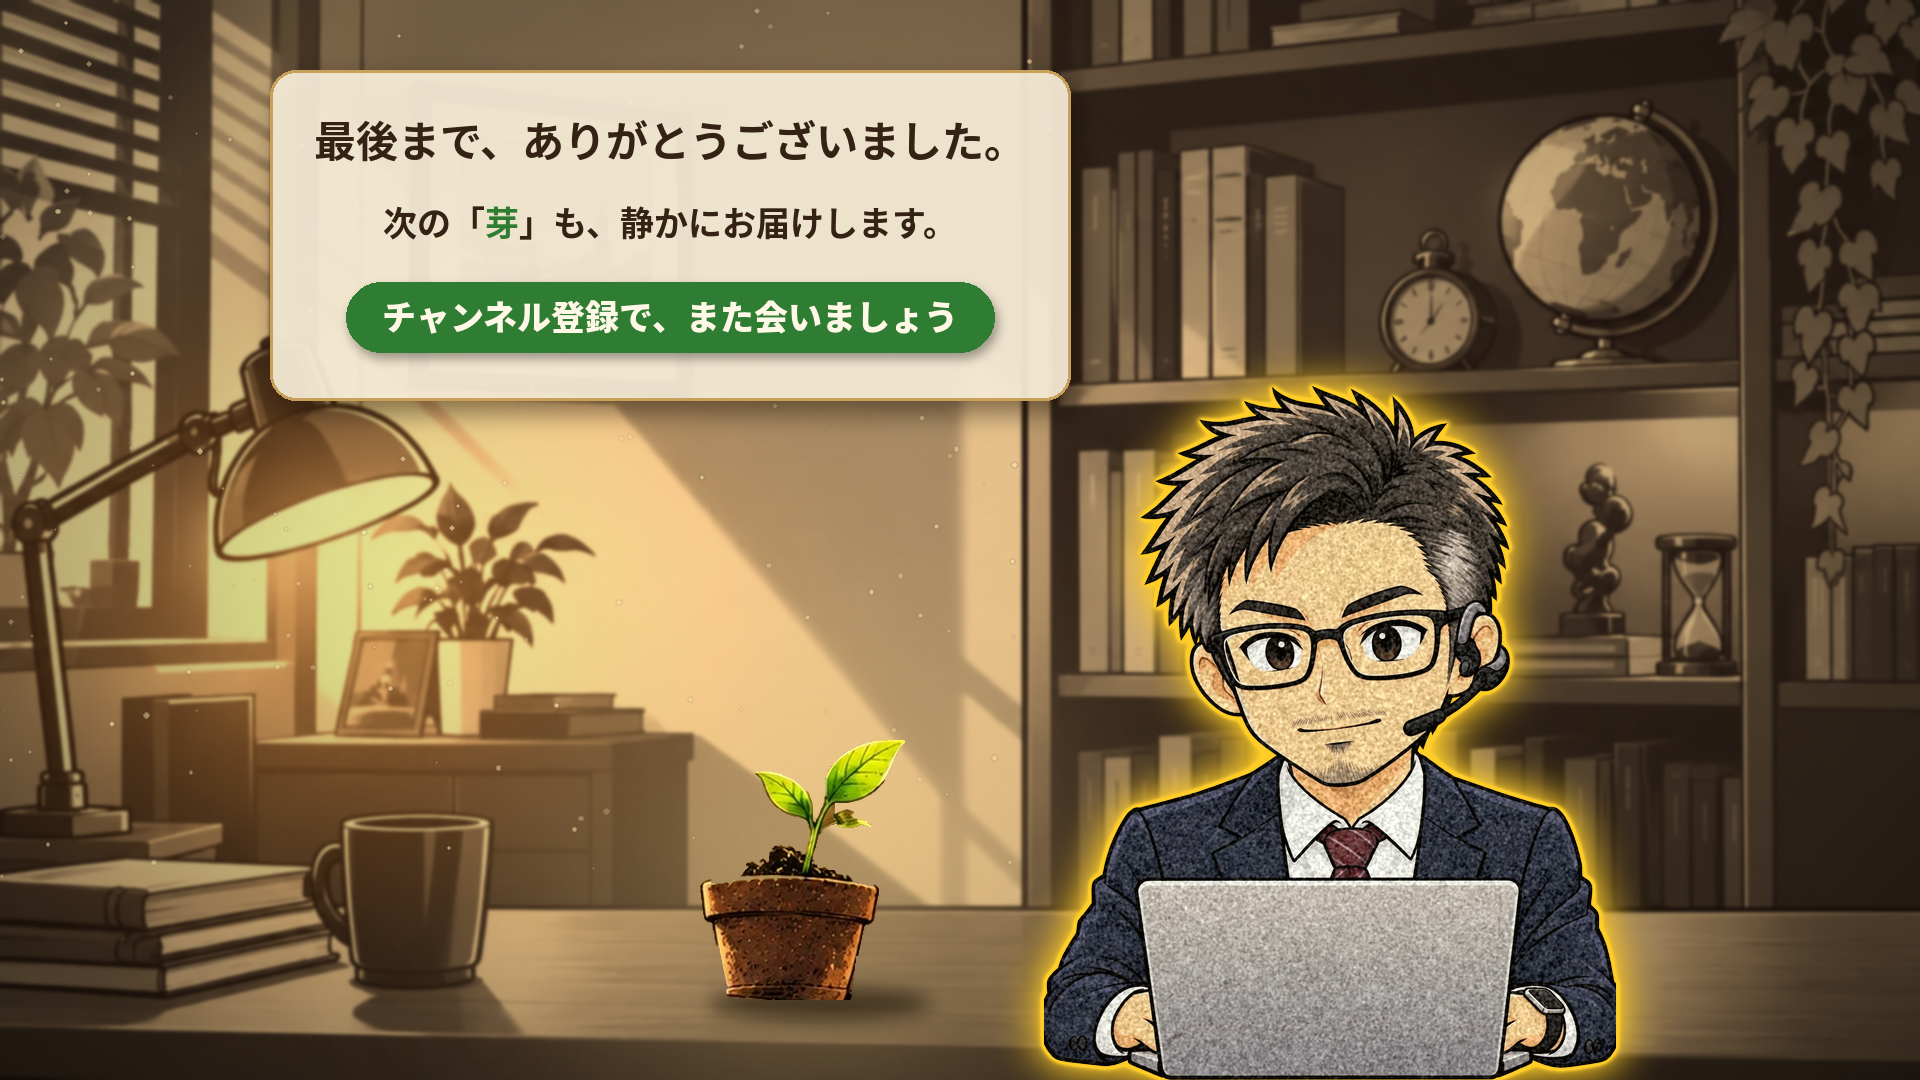
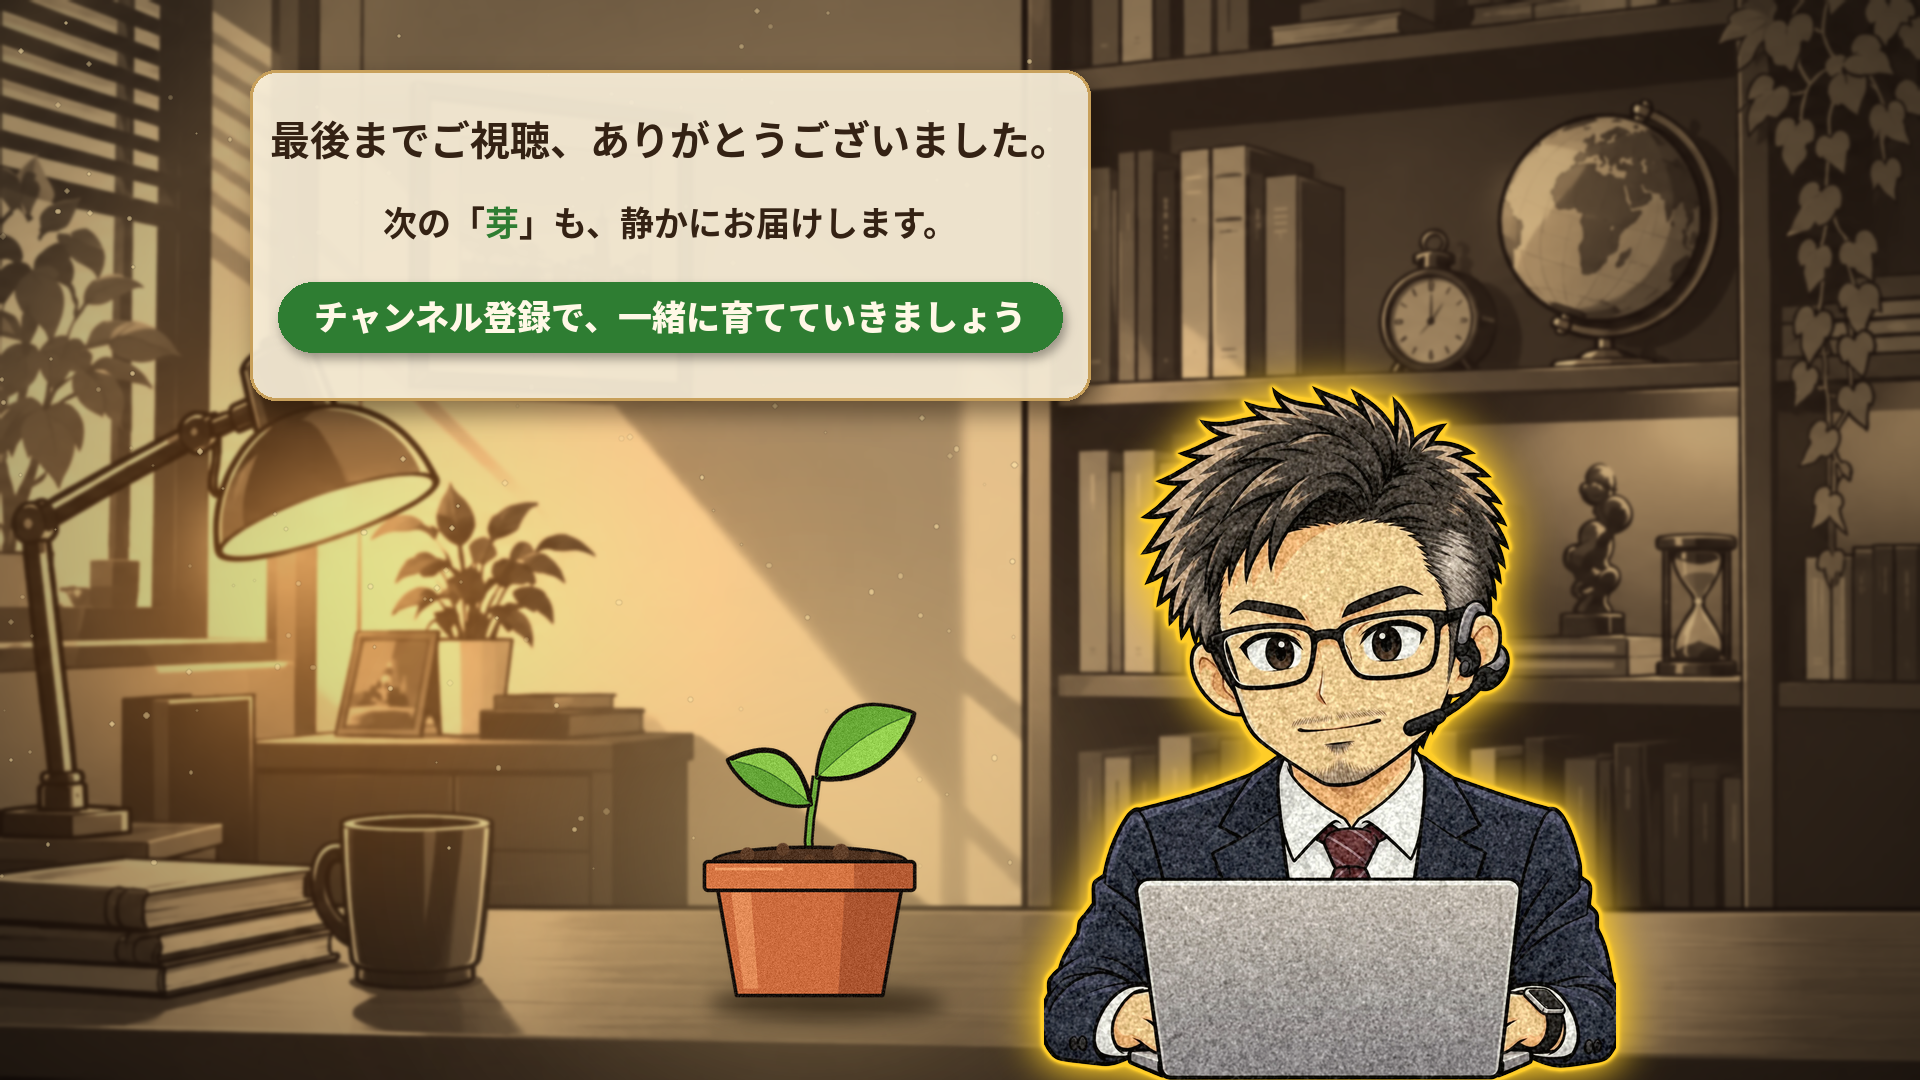
ENDの鉢をシンと同じアニメ調に描き直し、文言を更新
Claude-Session: https://claude.ai/code/session_013q6y1Wbgfz65LuLS3YWM2p

Changed region(s): [[0.125, 0.0611, 0.5938, 0.3667], [0.3438, 0.6417, 0.5, 0.9472]]

diff --git a/company/design/make_endcard.py b/company/design/make_endcard.py
@@ -43,8 +43,8 @@ im.alpha_composite(dust.filter(ImageFilter.GaussianBlur(0.6)))
 
 DESK=908
 # ---- 芽の鉢（机の上）＋スポットライト ----
-pl=Image.open(os.path.join(D,'assets','me_plant.png')); pl=pl.crop(pl.getbbox())
-k=1.05; pl=pl.resize((int(pl.width*k),int(pl.height*k)),Image.LANCZOS)
+pl=Image.open(os.path.join(D,'assets','me_plant_anime.png')); pl=pl.crop(pl.getbbox())
+k=300/pl.height; pl=pl.resize((int(pl.width*k),int(pl.height*k)),Image.LANCZOS)
 px=700; py=1000-pl.height
 spot=np.exp(-(((xx-(px+pl.width/2))/260)**2+((yy-(py+pl.height*0.5))/240)**2))
 sp=Image.fromarray((np.clip(spot,0,1)*90).astype(np.uint8)); spl=Image.new('RGBA',im.size,(255,215,140,0)); spl.putalpha(sp)
@@ -72,7 +72,7 @@ im.alpha_composite(s,(1330-s.width//2,H-s.height+p+4))
 d=ImageDraw.Draw(im)
 FB=os.path.join(D,'assets','NotoSansCJKjp-Bold.otf'); FK=os.path.join(D,'assets','NotoSansCJKjp-Black.otf')
 INK=(52,34,20); GREEN=(46,125,50); CREAM=(255,248,230)
-bx=(270,70,1070,400); cx=(bx[0]+bx[2])/2
+bx=(250,70,1090,400); cx=(bx[0]+bx[2])/2
 sh2=Image.new('RGBA',im.size,(0,0,0,0)); ImageDraw.Draw(sh2).rounded_rectangle((bx[0]+8,bx[1]+12,bx[2]+8,bx[3]+12),26,fill=(30,15,0,120))
 im.alpha_composite(sh2.filter(ImageFilter.GaussianBlur(12)))
 pn=Image.new('RGBA',im.size,(0,0,0,0)); ImageDraw.Draw(pn).rounded_rectangle(bx,26,fill=(252,242,220,232),outline=(200,160,90,255),width=3)
@@ -80,10 +80,10 @@ im.alpha_composite(pn); d=ImageDraw.Draw(im)
 def ctxt(parts,font,y):
     w=sum(d.textlength(t,font=font) for t,_ in parts); x=cx-w/2
     for t,c in parts: d.text((x,y),t,font=font,fill=c); x+=d.textlength(t,font=font)
-f1=ImageFont.truetype(FB,42); f2=ImageFont.truetype(FB,34); f3=ImageFont.truetype(FK,34)
-ctxt([('最後まで、ありがとうございました。',INK)],f1,108)
+f1=ImageFont.truetype(FB,40); f2=ImageFont.truetype(FB,34); f3=ImageFont.truetype(FK,34)
+ctxt([('最後までご視聴、ありがとうございました。',INK)],f1,108)
 ctxt([('次の「',INK),('芽',GREEN),('」も、静かにお届けします。',INK)],f2,196)
-t='チャンネル登録で、また会いましょう'
+t=sys.argv[3] if len(sys.argv)>3 else 'チャンネル登録で、一緒に育てていきましょう'
 w=d.textlength(t,font=f3); b=(cx-w/2-36,282,cx+w/2+36,352)
 s3=Image.new('RGBA',im.size,(0,0,0,0)); ImageDraw.Draw(s3).rounded_rectangle((b[0]+3,b[1]+6,b[2]+3,b[3]+6),35,fill=(0,0,0,90))
 im.alpha_composite(s3.filter(ImageFilter.GaussianBlur(5))); d=ImageDraw.Draw(im)

diff --git a/company/design/thumbnail-rules.md b/company/design/thumbnail-rules.md
@@ -33,11 +33,11 @@ python3 company/design/make_thumbnail.py 背景.png 出力.png "{y:人生}は、
 - **背景**：書斎（`assets/end_bg_study.webp`）。本棚・地球儀・砂時計・デスクライト
   - 加工：夕方の金色に色調整、ランプの灯り、窓の光、ほこりの粒、少しぼかし、周辺減光
 - **シン（正面）**：右側、本棚の前で机に向かう。素材：`assets/shin_front.webp`、フチは**黄色の発光**
-- **芽は必ず入れる**：芽の鉢植え（`assets/me_plant.png`）を机の上、シンの左に置く。スポットライトを当てる
+- **芽は必ず入れる**：芽の鉢植え（`assets/me_plant_anime.png`、シンと同じアニメ調）を机の上、シンの左に置く。スポットライトを当てる
 - **文字**：左上のクリーム色パネルに中央ぞろえ
-  - 最後まで、ありがとうございました。（こげ茶）
+  - 最後までご視聴、ありがとうございました。（こげ茶）
   - 次の「芽」も、静かにお届けします。（こげ茶、「芽」だけ緑）
-  - チャンネル登録で、また会いましょう（緑のボタンに白文字）
+  - チャンネル登録で、一緒に育てていきましょう（緑のボタンに白文字）
 - 作り方：`python3 company/design/make_endcard.py 出力.png [背景画像]`
 
 ## 作ったサムネ・END
